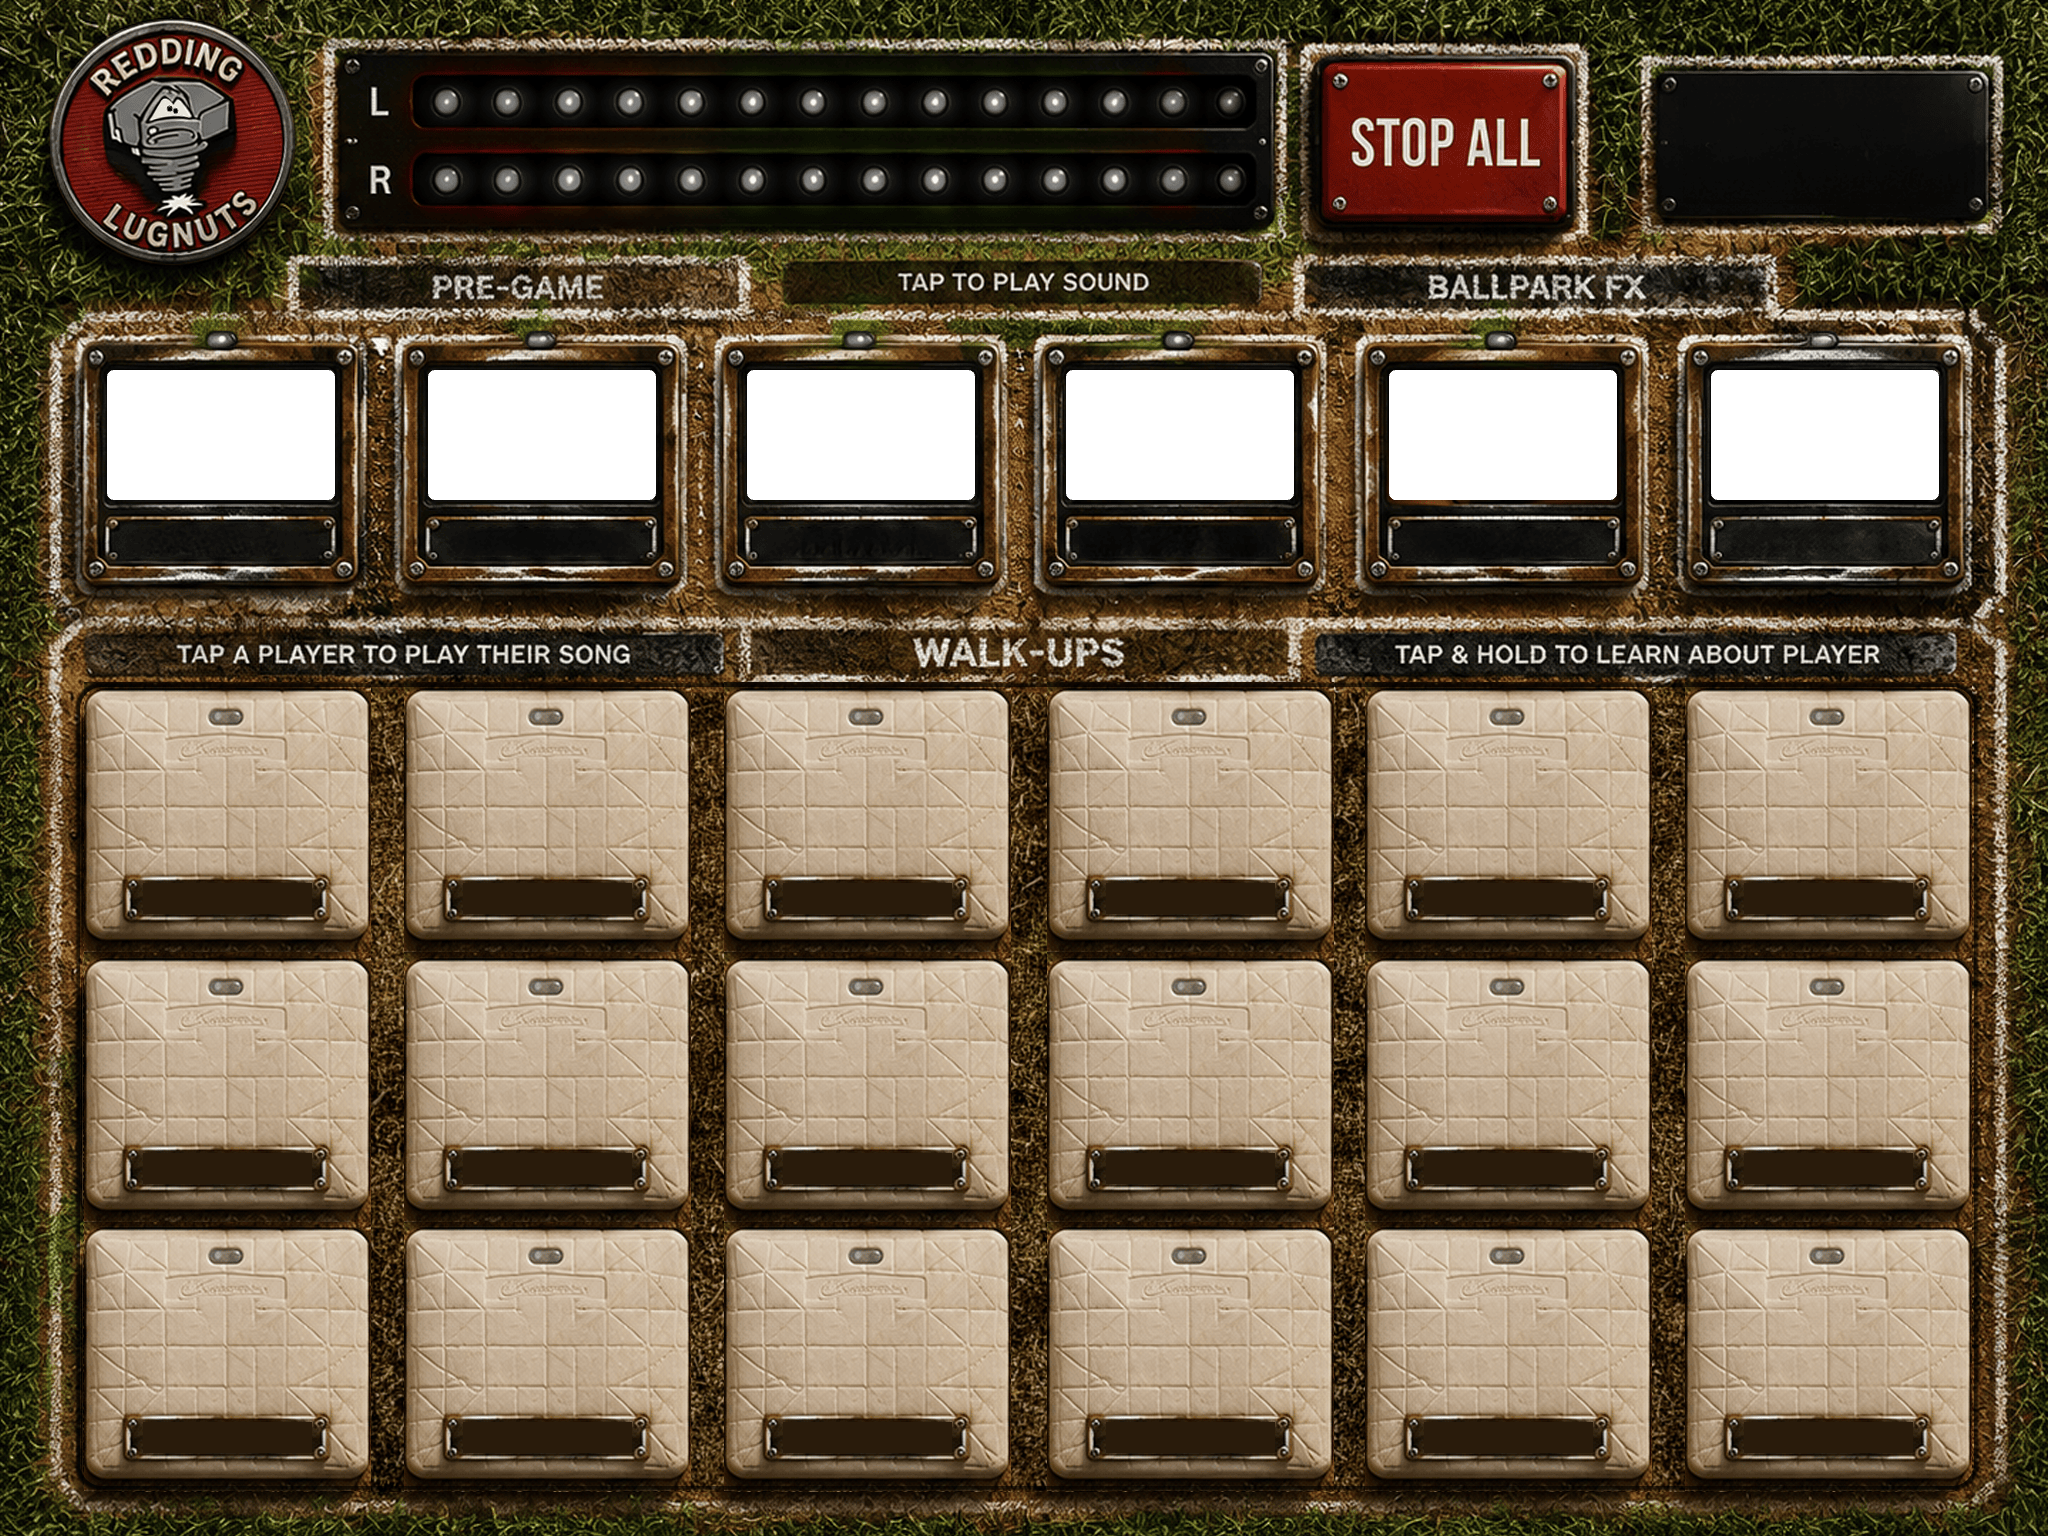
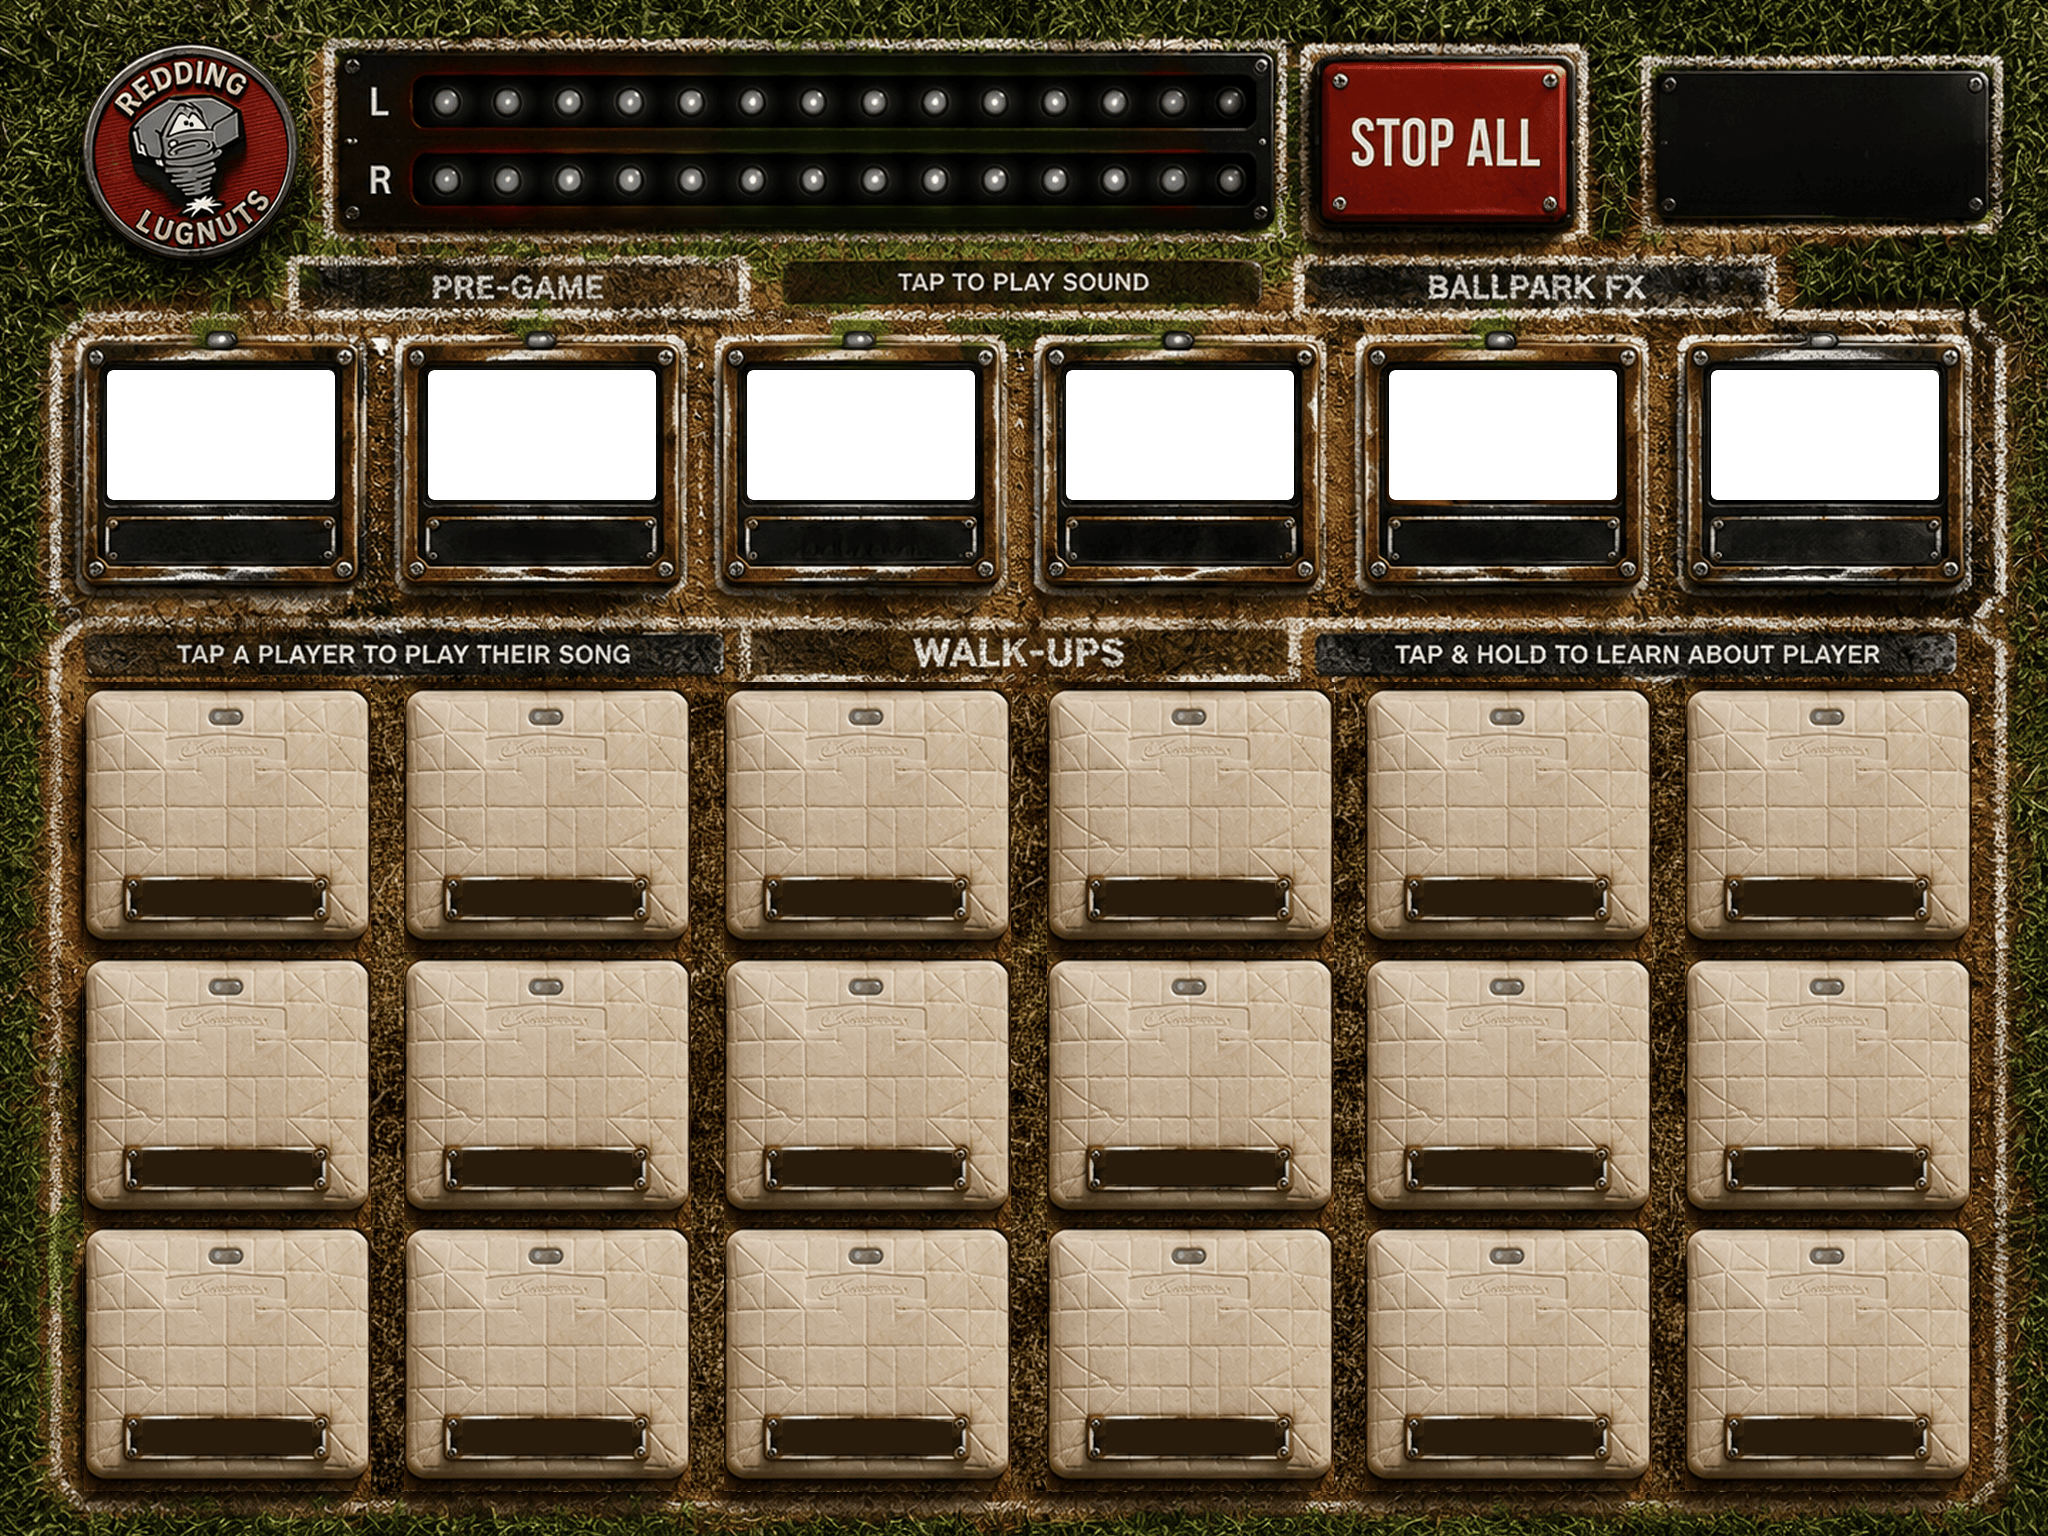
Add grass-filled letterbox background, resized mascot badge, fullscreen fix
- New wide backdrop art (panel-bg.png) sits behind the fixed canvas,
  scaled/centered in lockstep, so any letterboxing on non-4:3 screens
  shows extended grass instead of a flat color bar.
- Updated panel art shrinks and repositions the mascot badge so it no
  longer collides with iOS's own exit-fullscreen control in that corner.
- Fullscreen toggle now hides itself once fullscreen is engaged (it's
  sitting over the clock, which is fine as a one-time prompt but not
  worth permanently obscuring once there's already a native way out).

Changed region(s): [[0.0, 0.0, 0.1562, 0.1875], [0.9375, 0.4375, 0.9688, 0.4688]]

diff --git a/src/main.js b/src/main.js
@@ -17,6 +17,7 @@ import { startClock } from './ui/clock.js'
 import { renderDetailCard } from './ui/detailCard.js'
 import {
   CANVAS,
+  STAGE_BG_SIZE,
   MASTER_METER,
   STOP_ALL,
   LOGO,
@@ -70,6 +71,20 @@ function handlePadActivate(pad) {
 // never from ad hoc CSS breakpoints. ---
 const app = document.getElementById('app')
 const stage = el('div', 'stage')
+
+// Sits behind the canvas, scaled/centered identically — its center
+// 2048x1536 is covered exactly by the canvas above it, so the only part
+// that's ever visible is the extra grass bled onto its sides, filling in
+// what would otherwise be flat letterbox bars on a non-4:3 screen.
+const stageBg = el(
+  'img',
+  'stage-bg',
+  `width:${STAGE_BG_SIZE.w}px; height:${STAGE_BG_SIZE.h}px;`
+)
+stageBg.src = '/art/panel-bg.png'
+stageBg.alt = ''
+stageBg.draggable = false
+
 const canvas = el('div', 'canvas', `width:${CANVAS.w}px; height:${CANVAS.h}px;`)
 const photoLayer = el('div', 'layer photo-layer')
 const artImg = el('img', 'layer art-layer')
@@ -80,12 +95,13 @@ const overlayLayer = el('div', 'layer overlay-layer')
 const hitLayer = el('div', 'layer hit-layer')
 
 canvas.append(photoLayer, artImg, overlayLayer, hitLayer)
-stage.append(canvas)
+stage.append(stageBg, canvas)
 app.append(stage)
 
 function applyScale() {
   const scale = Math.min(stage.clientWidth / CANVAS.w, stage.clientHeight / CANVAS.h)
   canvas.style.transform = `scale(${scale})`
+  stageBg.style.transform = `translate(-50%, -50%) scale(${scale})`
 }
 new ResizeObserver(applyScale).observe(stage)
 applyScale()
@@ -187,26 +203,28 @@ if (canFullscreen) {
   fullscreenLabel.textContent = 'FULLSCREEN'
   overlayLayer.appendChild(fullscreenLabel)
 
+  // Only ever shown/clickable when NOT already fullscreen — it sitting over
+  // the clock is fine as a one-time prompt, but once fullscreen is engaged
+  // the control disappears entirely so the clock reads clearly; exiting
+  // relies on the browser's own fullscreen-exit affordance instead.
   const fullscreenHit = el('button', 'hit-target', rectStyle(FULLSCREEN_PLATE))
   fullscreenHit.type = 'button'
-  fullscreenHit.setAttribute('aria-label', 'Toggle fullscreen')
+  fullscreenHit.setAttribute('aria-label', 'Enter fullscreen')
   fullscreenHit.addEventListener('click', () => {
-    if (fullscreenElement()) {
-      ;(document.exitFullscreen || document.webkitExitFullscreen)?.call(document)
-    } else {
-      const target = document.documentElement
-      ;(target.requestFullscreen || target.webkitRequestFullscreen)?.call(target)
-    }
+    const target = document.documentElement
+    ;(target.requestFullscreen || target.webkitRequestFullscreen)?.call(target)
     fullscreenGlow.classList.add('is-active')
     setTimeout(() => fullscreenGlow.classList.remove('is-active'), 220)
   })
   hitLayer.appendChild(fullscreenHit)
 
-  const updateFullscreenLabel = () => {
-    fullscreenLabel.textContent = fullscreenElement() ? 'EXIT FULLSCREEN' : 'FULLSCREEN'
+  const updateFullscreenControl = () => {
+    const active = Boolean(fullscreenElement())
+    fullscreenLabel.style.display = active ? 'none' : 'flex'
+    fullscreenHit.style.display = active ? 'none' : 'block'
   }
-  document.addEventListener('fullscreenchange', updateFullscreenLabel)
-  document.addEventListener('webkitfullscreenchange', updateFullscreenLabel)
+  document.addEventListener('fullscreenchange', updateFullscreenControl)
+  document.addEventListener('webkitfullscreenchange', updateFullscreenControl)
 }
 
 // --- Walk-Ups ---

diff --git a/src/ui/coordinates.js b/src/ui/coordinates.js
@@ -1,18 +1,29 @@
 import coordinates from '../data/coordinates.json'
 
 export const CANVAS = coordinates.canvas
+
+// The wide backdrop's own natural size — its center 2048x1536 is pixel-
+// identical to the main panel art (just extra grass bled onto the sides),
+// so it scales/centers in lockstep with the canvas rather than living on
+// its own coordinate system.
+export const STAGE_BG_SIZE = { w: 2386, h: 1536 }
 export const MASTER_METER = coordinates.masterMeter
 export const CLOCK = coordinates.clock
 export const STOP_ALL = coordinates.controls.stopAll
 
 // No coordinate table entry for the mascot badge either — measured
 // directly off the art (it's the circular "REDDING LUGNUTS" badge, top
-// left of the panel).
-export const LOGO = { x: 18, y: 18, w: 260, h: 260 }
+// left of the panel). Re-measured after the art was updated to shrink and
+// reposition the badge so it stops colliding with iOS's own exit-fullscreen
+// control in that corner.
+export const LOGO = { x: 92, y: 48, w: 208, h: 208 }
 
-// The blank plate to the right of STOP ALL (screwed-down bezel, no baked
-// label) — measured off the art the same way. Repurposed as the fullscreen
-// toggle since it wasn't doing anything.
+// The clock housing plate, independently measured off the art (this
+// overlaps coordinates.clock.housing — same physical plate, two separate
+// measurements of it). Doubling as the fullscreen toggle's hit area: fine
+// to sit over the clock digits while not yet fullscreen (prompts the user
+// to notice it), but the control itself hides once fullscreen is engaged
+// so the clock is fully visible again.
 export const FULLSCREEN_PLATE = { x: 1622, y: 62, w: 376, h: 152 }
 
 const topRowById = new Map(coordinates.topRow.map((slot) => [slot.id, slot]))

diff --git a/src/style.css b/src/style.css
@@ -97,16 +97,27 @@ button {
    =================================================================== */
 
 .stage {
+  position: relative;
   width: 100vw;
   height: 100dvh;
   display: flex;
   align-items: center;
   justify-content: center;
   overflow: hidden;
-  /* Dark olive rather than flat black — the fixed-canvas art's own edges
-     are a dark grass tone, so any unavoidable letterboxing (aspect-ratio
-     mismatch against the device) reads as shadow instead of a stark bar. */
+  /* Fallback for the sliver of a mismatch, if any, between the stage-bg
+     image's own edge and the viewport — the art should cover this in
+     practice, dark olive just keeps anything peeking through from
+     reading as a stark black bar. */
   background: #17170c;
+}
+
+.stage-bg {
+  position: absolute;
+  top: 50%;
+  left: 50%;
+  transform-origin: center center;
+  pointer-events: none;
+  user-select: none;
 }
 
 .canvas {
